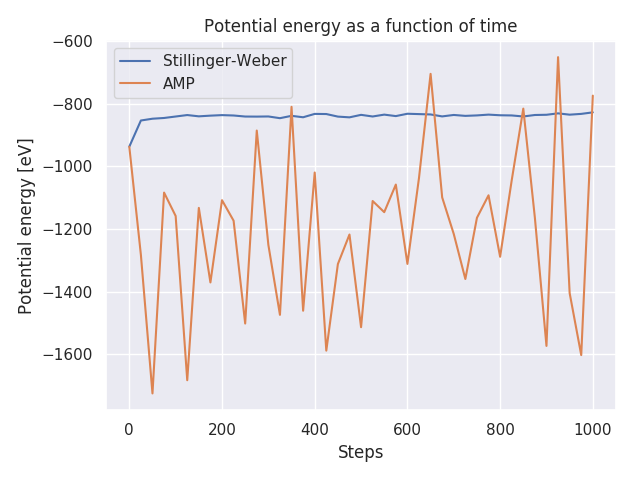
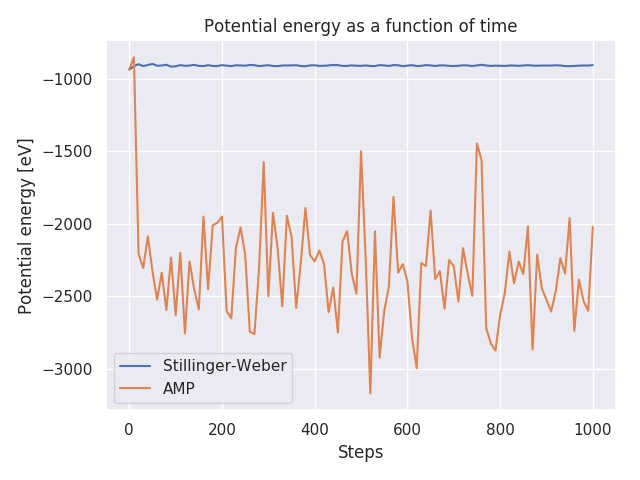
LJ works somewhat

diff --git a/emt-copper/main.py b/emt-copper/main.py
@@ -3,16 +3,14 @@ import sys
 sys.path.insert(0, "../tools")
 
 import os
-from ase.calculators.lj import LennardJones
+from asap3 import EMT
 from analysis import Analyzer
 from plot import Plotter
 from trainer import Trainer
 
 if __name__ == "__main__":
-    sigma = 3.405
-    epsilon = 1.0318e-2
-    calc = LennardJones(sigma=sigma, epsilon=epsilon)
-    system = "lennard_jones"
+    calc = EMT()
+    system = "copper"
 
     train_filename = "training.traj"
     test_filename = "test.traj"
@@ -23,13 +21,13 @@ if __name__ == "__main__":
     msd_file = "msd_{}.png".format(system)
     energy_file = "energy_{}.png".format(system)
 
-    n_train = int(4e5)
+    n_train = int(1e5)
     size = (3, 3, 3)
     save_interval = 10
-    temp = 350
+    temp = 500
 
     convergence = {"energy_rmse": 1e-6, "max_steps": int(1e4)}
-    cutoff = 4.0
+    cutoff = 6.5
     Gs = None
 
     anl = Analyzer(save_interval=save_interval)
@@ -42,7 +40,7 @@ if __name__ == "__main__":
 
     x, rdf = anl.calculate_rdf(test_filename)
     x, amp_rdf = anl.calculate_rdf(amp_test_filename)
-    legend = ["Lennard-Jones", "AMP"]
+    legend = ["EMT", "AMP"]
     plt.plot_rdf(rdf_file, legend, x, rdf, amp_rdf)
 
     steps, msd = anl.calculate_msd(test_filename)

diff --git a/tools/trainer.py b/tools/trainer.py
@@ -13,8 +13,8 @@ class Trainer:
         n_train=int(1e4),
         n_test=int(1e3),
         save_interval=50,
-        size=(3, 3, 3),
-        temp=1500,
+        size=(2, 2, 2),
+        temp=1000,
     ):
         self.n_train = n_train
         self.n_test = n_test
@@ -32,11 +32,12 @@ class Trainer:
         force_coefficient=None,
         hidden_layers=(10, 10, 10),
         activation="tanh",
+        cutoff=6.0,
         Gs=None,
     ):
         xyz_filename = "".join((train_filename.split(".")[0], ".xyz"))
         if convergence is None:
-            convergence = {"energy_rmse": 1e-6}
+            convergence = {"energy_rmse": 1e-3}
 
         generator = GenerateTrajectory()
         generator.generate_system(calc, system, self.size, self.temp)
@@ -46,7 +47,7 @@ class Trainer:
         print("Training from traj: {}".format(train_filename))
 
         traj = ase.io.read(train_filename, ":")
-        descriptor = Gaussian(Gs=Gs, fortran=True)
+        descriptor = Gaussian(cutoff=cutoff, Gs=Gs, fortran=True)
         loss_function = LossFunction(
             convergence=convergence,
             energy_coefficient=energy_coefficient,

diff --git a/stillinger-weber/main.py b/stillinger-weber/main.py
@@ -22,13 +22,15 @@ if __name__ == "__main__":
     energy_file = "energy_{}.png".format(system)
     Gs = None
 
+    n_train = int(1e5)
+    save_interval = 10
+    size = (3, 3, 3)
     temp = 2000
-    n_train = int(1e4)
-    force_coefficient = 0.04
-    convergence = {"energy_rmse": 1e-6, "force_rmse": 1e-3, "max_steps": int(1e4)}
+    force_coefficient = None
+    convergence = {"energy_rmse": 1e-6, "force_rmse": None, "max_steps": int(1e4)}
 
-    trn = Trainer(n_train=n_train, temp=temp)
-    anl = Analyzer()
+    trn = Trainer(n_train=n_train, save_interval=save_interval, size=size, temp=temp)
+    anl = Analyzer(save_interval=save_interval)
     plt = Plotter()
     if not os.path.exists("amp.amp"):
         trn.train_amp(

diff --git a/lennard-jones/twobody.py b/lennard-jones/twobody.py
@@ -1,0 +1,28 @@
+import os
+import numpy as np
+import matplotlib.pyplot as plt
+import ase.io
+from ase import Atom, Atoms, units
+from ase.calculators.lj import LennardJones
+from amp import Amp
+
+if not os.path.exists("amp.amp"):
+    print("No trained AMP calculator!")
+else:
+    amp_calc = Amp.load("amp.amp")
+
+sigma = 3.405
+epsilon = 1.0318e-2
+calc = LennardJones(sigma=sigma, epsilon=epsilon)
+atoms = Atoms([Atom("Ar", (0, 0, 0)), Atom("Ar", (0, 0, 0))])
+atoms.set_calculator(calc)
+
+dist = np.linspace(0.95, 3.0, 1000)*sigma
+pot = np.zeros_like(dist)
+
+for i, r in enumerate(dist):
+    atoms.positions[1][0] = r
+    pot[i] = atoms.get_potential_energy()
+
+plt.plot(dist, pot)
+plt.show()

diff --git a/stillinger-weber/threebody.py b/stillinger-weber/threebody.py
@@ -1,0 +1,26 @@
+import os
+import numpy as np
+import matplotlib.pyplot as plt
+import ase.io
+from ase import Atom, Atoms, units
+from asap3 import OpenKIMcalculator
+from amp import Amp
+
+if not os.path.exists("amp.amp"):
+    print("No trained AMP calculator!")
+else:
+    amp_calc = Amp.load("amp.amp")
+
+calc = OpenKIMcalculator("SW_StillingerWeber_1985_Si__MO_405512056662_005")
+atoms = Atoms([Atom("Si", (1, 2, 3)), Atom("Si", (1, 3, 2)), Atom("Si", (2, 3, 1))])
+atoms.set_calculator(calc)
+
+dist = np.linspace(0.0, 1.0, 1000)
+pot = np.zeros_like(dist)
+
+for i, r in enumerate(dist):
+    print(atoms.positions)
+    pot[i] = atoms.get_potential_energy()
+
+plt.plot(dist, pot)
+plt.show()

diff --git a/tools/generate_traj.py b/tools/generate_traj.py
@@ -15,6 +15,7 @@ class GenerateTrajectory:
         self.systems = {
             "lennard_jones": self.lennard_jones_system,
             "stillinger_weber": self.stillinger_weber_system,
+            "copper": self.copper_system,
         }
 
     def generate_system(self, calc, system, size, temp):
@@ -32,6 +33,9 @@ class GenerateTrajectory:
 
     def stillinger_weber_system(self, size, temp):
         self.atoms = Diamond(size=size, symbol="Si", pbc=True)
+
+    def copper_system(self, size, temp):
+        self.atoms = FaceCenteredCubic(size=size, symbol="Cu", pbc=True)
 
     def create_traj(self, filename, n_steps, save_interval, timestep=1.0):
         if os.path.exists(filename):

diff --git a/tools/analysis.py b/tools/analysis.py
@@ -4,6 +4,9 @@ from asap3.analysis.rdf import RadialDistributionFunction
 
 
 class Analyzer:
+    def __init__(self, save_interval):
+        self.save_interval = save_interval
+
     def calculate_rdf(self, traj_file, rmax=10.0, nbins=100):
         traj = ase.io.read(traj_file, ":")
         x = (np.arange(nbins) + 0.5) * rmax / nbins
